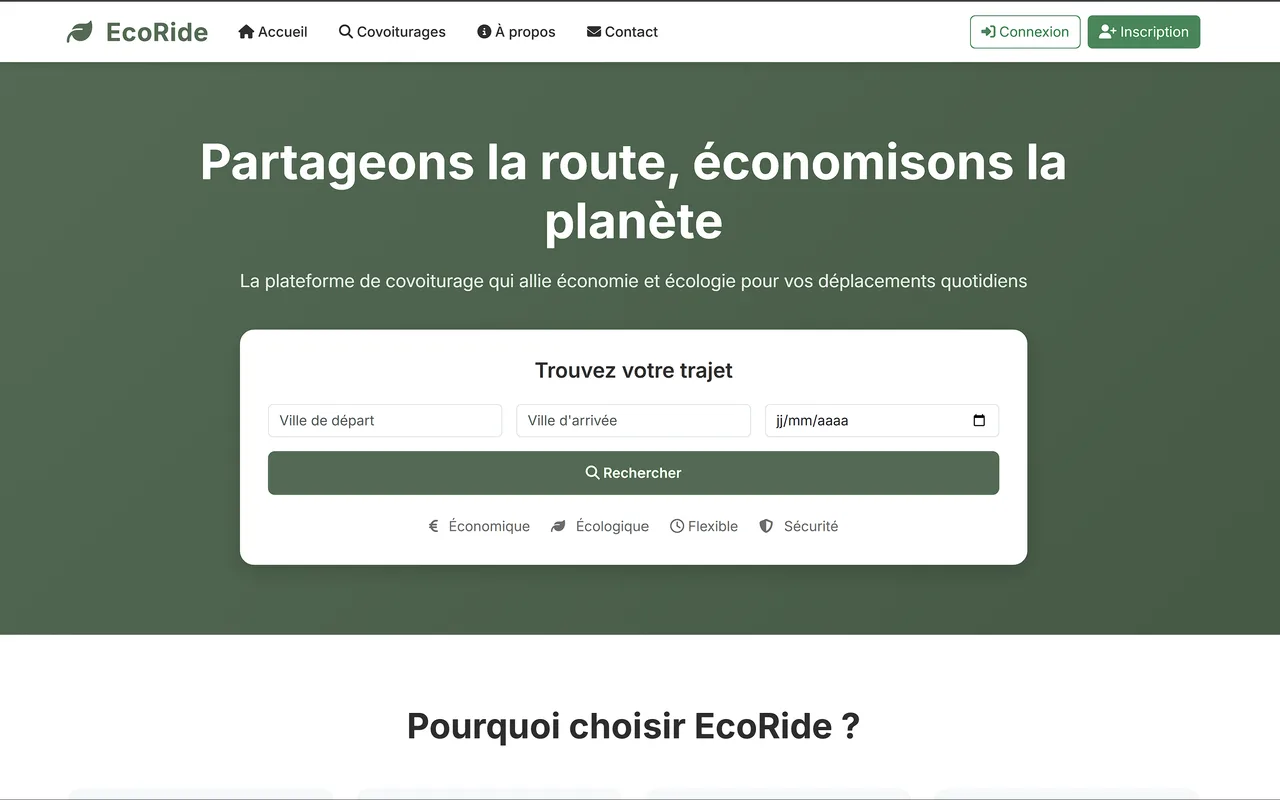
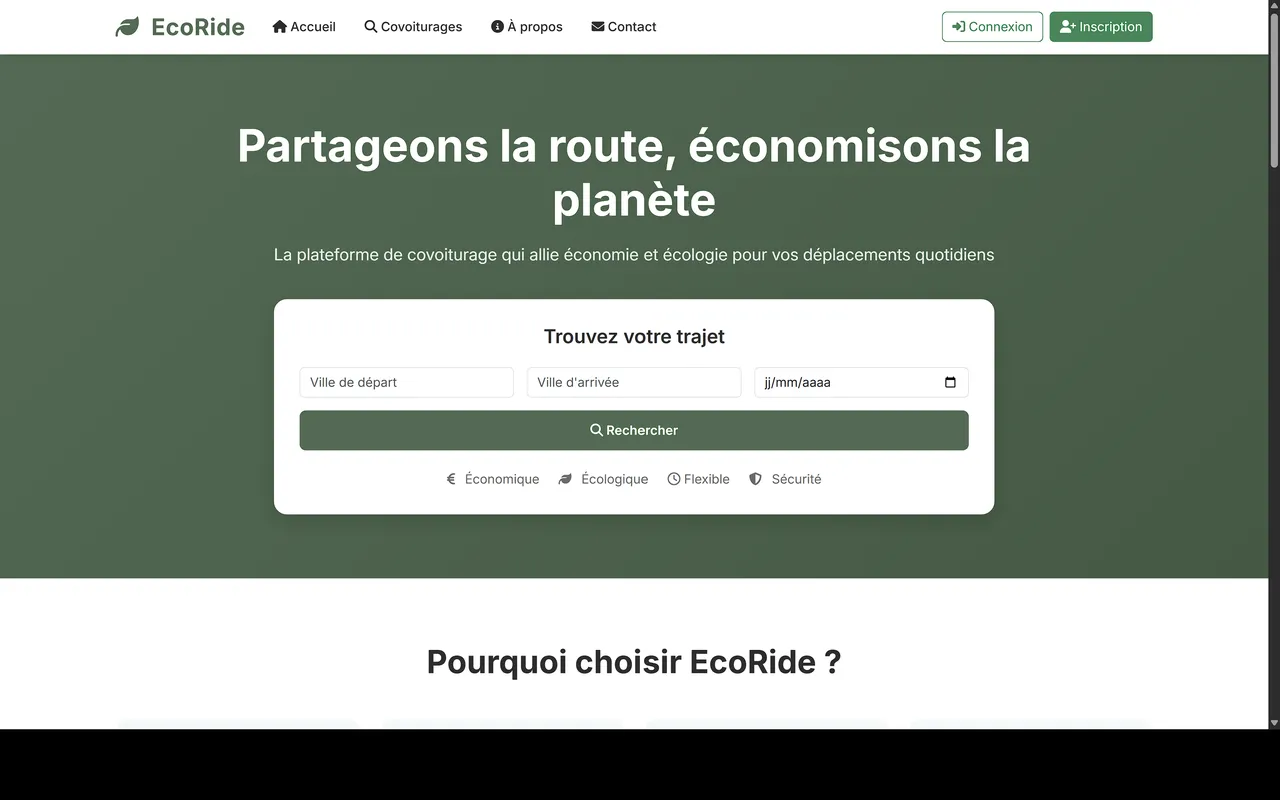
feat: etude de cas EcoRide
- Contenu complet EcoRide (approche, difficultes, retour du jury)
- Galerie ordinateur et captures mobiles
- Gabarit : rangee mobile, encadre compte de demo, titres d'annexe personnalisables

diff --git a/src/content.config.ts b/src/content.config.ts
@@ -39,10 +39,17 @@ const projets = defineCollection({
       etroit: z.boolean().default(false),
     })).default([]),
     galerie: z.array(z.object({ src: z.string(), legende: z.string() })).default([]),
+    mobiles: z.array(z.object({ src: z.string(), legende: z.string() })).default([]),
+    demo: z.object({
+      texte: z.string(),
+      comptes: z.array(z.object({ role: z.string(), identifiant: z.string(), motDePasse: z.string() })),
+    }).optional(),
     difficultes: z.array(z.object({ titre: z.string(), probleme: z.string(), solution: z.string() })).default([]),
     annexe: z.object({
       titre: z.string(),
       texte: z.string(),
+      titreConstats: z.string().default("Ce que j'ai trouvé"),
+      titreActions: z.string().default("Ce que j'ai fait"),
       constats: z.array(z.string()).default([]),
       actions: z.array(z.string()).default([]),
       image: z.string().optional(),

diff --git a/src/content/projets/ecoride.md b/src/content/projets/ecoride.md
@@ -1,37 +1,132 @@
 ---
 titre: EcoRide
-accroche: Partager la route, de la recherche de trajet à la réservation
+accroche: "Une plateforme de covoiturage complète, du sprint de 10 jours jusqu'au retour du jury."
+resume: "Application de covoiturage écologique en PHP objet, MySQL et MongoDB, conçue seul pour le titre professionnel Développeur Web et Web Mobile, puis déployée avec Docker."
 type: Covoiturage · certification
-annee: "[année]"
-teinte: corail
-domaine: "[domaine EcoRide]"
-resume: Plateforme de covoiturage avec comptes, recherche de trajets et réservation. Projet final du titre DWWM, déployé en ligne.
+annee: 2025 – 2026
 label: Full-stack · PHP / MySQL
-stack: [PHP, MySQL, Bootstrap, Render, Aiven]
+teinte: corail
+stack: [PHP 8, MySQL, MongoDB, Docker]
 ordre: 2
 capture: /captures/ecoride.webp
-lienSite: "[lien du site en ligne]"
-lienCode: "[lien du dépôt GitHub]"
+domaine: ecoride-guillaume.onrender.com
+# à remettre une fois les bloquants corrigés (page des logs protégée, trajets de démo à jour, branche fusionnée)
+# lienSite: https://ecoride-guillaume.onrender.com
+# lienCode: https://github.com/Guillaume555/ecoride
+
+# à remettre après avoir testé les comptes en ligne (jamais le compte admin)
+# demo:
+#   texte: "Le site est hébergé sur une offre gratuite : la première page peut mettre une minute à se réveiller."
+#   comptes:
+#     - role: Passager
+#       identifiant: passager@ecoride.fr
+#       motDePasse: Test1234
+#     - role: Conducteur
+#       identifiant: "[à vérifier]"
+#       motDePasse: "[à vérifier]"
+
+infos:
+  - label: Cadre
+    valeur: ECF du titre pro DWWM
+  - label: Rôle
+    valeur: Seul, de la maquette au déploiement
+  - label: Durée
+    valeur: Juillet 2025 – juillet 2026
+  - label: Bases
+    valeur: MySQL + MongoDB Atlas
+
+contexte: "Le sujet de l'évaluation : une startup fictive, EcoRide, veut une application de covoiturage pour les trajets en voiture, avec une identité écologique. Le cahier des charges contenait 13 user stories. La stack était libre, avec trois obligations : une base relationnelle, une base NoSQL et une mise en ligne. J'ai d'abord livré une première version en un sprint de 10 jours, puis je l'ai fait évoluer pendant un an."
+
+probleme: "L'enjeu n'était pas un joli site vitrine, mais une vraie application avec des règles métier :"
+chantiers:
+  - "Gérer une monnaie interne, les crédits, sans jamais en perdre ni en créer, même en cas d'erreur."
+  - "Séparer clairement les droits du visiteur, de l'utilisateur et de l'administrateur."
+  - "Faire tourner en ligne une base relationnelle et une base NoSQL, sur des hébergements gratuits."
+
+approche:
+  - titre: Une réservation qui ne peut pas réussir à moitié
+    texte: "Avant de réserver, l'application vérifie les crédits, les places, la date, et qu'on ne réserve pas son propre trajet. Ensuite, une transaction SQL fait quatre opérations : débit du passager, crédit du conducteur, création de la réservation et mise à jour des places. Si une seule échoue, tout est annulé. L'annulation et le remboursement suivent la même logique."
+  - titre: Du PHP objet, sans framework
+    texte: "Des classes métier (utilisateur, trajet, véhicule, admin) et des services séparés pour la session, la base, les emails et la réinitialisation du mot de passe. Un point d'entrée unique avec une liste blanche des pages, et PDO avec des requêtes préparées partout."
+  - titre: Deux bases, deux rôles
+    texte: "MySQL stocke les données métier : 6 tables reliées par des clés étrangères, avec des index. MongoDB Atlas sert de journal d'activité (connexions, trajets, réservations). Si Atlas ne répond pas, un fichier de secours prend le relais pour ne pas bloquer le site."
+  - titre: La sécurité dès les bases
+    texte: "Mots de passe hachés avec bcrypt, échappement des affichages, contrôle du rôle et du propriétaire sur chaque action, session régénérée à la connexion, cookies httponly, jeton de réinitialisation haché, valable une heure et à usage unique, secrets en variables d'environnement."
+  - titre: Une recherche qui répond sans recharger
+    texte: "La recherche interroge une petite API qui renvoie du JSON, avec un délai pour ne pas lancer une requête à chaque lettre et un échappement des résultats côté client. Sans JavaScript, le formulaire fonctionne quand même."
+  - titre: L'IA comme binôme, sous contrôle
+    texte: "Je l'ai utilisée pour planifier, comprendre, déboguer et générer des classes que j'intégrais et testais. Ce projet m'a appris à la contrôler : du code écrit sur une structure de base supposée a provoqué de vrais bugs. Depuis, ma règle est simple : je lis le vrai code et la vraie base avant d'affirmer quoi que ce soit."
+
+galerie:
+  - src: /projets/ecoride/recherche.webp
+    legende: "Recherche d'un trajet, avec filtres par prix et par type de véhicule. Les trajets en voiture électrique portent un badge « Éco »."
+  - src: /projets/ecoride/detail.webp
+    legende: "Détail d'un trajet : conducteur, véhicule, préférences et réservation avec calcul du total."
+  - src: /projets/ecoride/mes-trajets.webp
+    legende: "Mes trajets : les trajets publiés comme conducteur et les réservations comme passager, avec annulation."
+  - src: /projets/ecoride/profil.webp
+    legende: "Profil : crédits, statistiques et actions rapides."
+  - src: /projets/ecoride/admin-dashboard.webp
+    legende: "Tableau de bord administrateur : utilisateurs, trajets, réservations et crédits en circulation."
+  - src: /projets/ecoride/admin-utilisateurs.webp
+    legende: "Gestion des utilisateurs : suspension, réactivation, suppression et ajustement des crédits. Emails floutés."
+
+mobiles:
+  - src: /projets/ecoride/mobile-accueil.webp
+    legende: Accueil
+  - src: /projets/ecoride/mobile-recherche.webp
+    legende: Résultats de recherche
+  - src: /projets/ecoride/mobile-reservation.webp
+    legende: Réservation
+
+difficultes:
+  - titre: Ça marche en local, ça plante en ligne
+    probleme: "Une partie des classes avait été écrite sur une structure de base supposée, pas sur la vraie. En local, j'avais ajouté une colonne à la main ; la base en ligne, recréée depuis un ancien script, ne l'avait pas. La réservation fonctionnait chez moi et plantait en production."
+    solution: "J'ai lu le message d'erreur PDO (« Unknown column »), comparé avec la vraie structure de la base dans DBeaver, puis aligné toutes les requêtes sur le schéma réel."
+  - titre: Le remboursement infini
+    probleme: "Après une annulation, appuyer sur F5 renvoyait le formulaire : le compte était recrédité à chaque rafraîchissement."
+    solution: "Redirection systématique après chaque formulaire, et vérification du statut de la réservation avant tout remboursement."
+  - titre: Du local à la production
+    probleme: "Échec sur Railway à cause de la version de PHP, port imposé par l'hébergeur, extensions manquantes, SSL obligatoire côté base, et une base gratuite vidée pour inactivité."
+    solution: "Passage sur Render avec un Dockerfile (PHP, extensions, Apache reconfiguré), options SSL dans PDO, réimport de la base avec DBeaver, et un guide de déploiement pour ne plus refaire les mêmes erreurs."
+  - titre: GitHub qui bloque les push
+    probleme: "Des identifiants étaient écrits dans le code : GitHub a refusé les envois."
+    solution: "Identifiants déplacés dans des variables d'environnement, fichiers sensibles ajoutés au .gitignore, et mots de passe changés."
+
+annexe:
+  titre: Le retour du jury, et la suite
+  texte: "La correction de l'évaluation m'a fait un retour critique, notamment sur la connexion et sur la documentation. J'ai pris trois semaines pour corriger avant la soutenance. Et je préfère être clair sur ce qui n'est pas encore fait."
+  titreConstats: Ce qui n'est pas encore fait
+  constats:
+    - "Le rôle employé (la modération est faite par l'administrateur)."
+    - "La commission de la plateforme sur chaque trajet."
+    - "Le démarrage et l'arrêt d'un trajet par le conducteur."
+    - "Le dépôt d'un avis depuis l'interface."
+    - "La protection CSRF des formulaires."
+  titreActions: Ce que j'ai corrigé avant la soutenance
+  actions:
+    - "La connexion, qui lisait encore une ancienne colonne de la base."
+    - "La recherche asynchrone, ajoutée à cette occasion."
+    - "Un nouveau jeu de données de démo et un environnement Docker pour le local."
+    - "La documentation : guide de déploiement, MCD, MLD, diagramme de classes et cas d'utilisation."
+
+stackComplete: ["PHP 8.1 (objet)", PDO, MySQL, MongoDB Atlas, "JavaScript (fetch)", Bootstrap 5.3, Composer, PHPMailer, Docker, Render, Aiven, Git et GitHub, Figma]
+
+resultats:
+  - titre: "[Titre DWWM obtenu en 2026]"
+    texte: "[À confirmer : titre professionnel Développeur Web et Web Mobile, niveau 5.]"
+  - titre: Une application en ligne
+    texte: "Déployée avec Docker, avec une base relationnelle et une base NoSQL hébergées dans le cloud."
+  - titre: Un projet suivi dans le temps
+    texte: "Une soixantaine de commits sur un an : d'un sprint de 10 jours à une version corrigée après le retour du jury."
+  - titre: Une documentation complète
+    texte: "README, guide de déploiement et diagrammes : MCD, MLD, classes et cas d'utilisation."
+
+autrement:
+  - "Partir sur une architecture objet dès le premier jour."
+  - "Utiliser Git dès le début, avec une branche par fonctionnalité."
+  - "Garder un seul script SQL pour le local et la production."
+  - "Cocher le cahier des charges user story par user story, pour savoir exactement ce qui est fait."
+  - "Mettre en place la protection CSRF et un vrai jeton « se souvenir de moi » dès le départ."
+  - "Écrire la documentation au fil de l'eau, et moi-même."
 ---
-
-## Contexte
-
-[À écrire : le sujet de l'ECF, le cahier des charges.]
-
-## Mon rôle
-
-Projet réalisé seul, de la conception au déploiement.
-
-## Ce que j'ai fait
-
-- Modélisation de la base de données
-- Système de réservation
-- Déploiement sur Render avec une base MySQL hébergée sur Aiven
-
-## Une difficulté et sa solution
-
-[À écrire : par exemple les différences entre l'environnement local (Laragon) et la production.]
-
-## Résultat
-
-[À écrire.]
